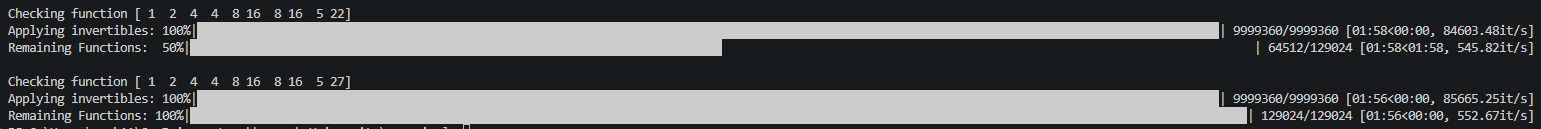
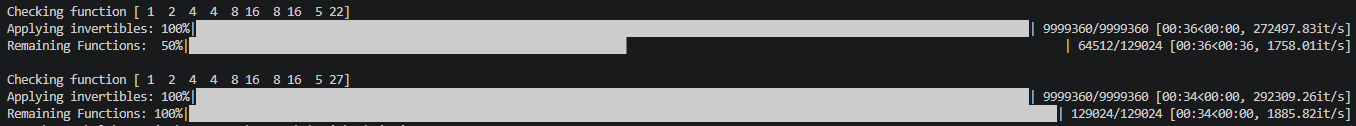
Updated program speed

diff --git a/classify.py b/classify.py
@@ -1,4 +1,4 @@
-from functions import *
+from functions import get_rank, get_canonical_form, get_cubic_indices
 import numpy as np
 from numba import njit
 from configparser import ConfigParser # to read config file
@@ -164,4 +164,4 @@ if __name__ == "__main__":
         n = int(n) # ensures that n is an integer
         main(n)
     except Exception as e:
-            print(f'Error - n must be an integer: {e}')
+        print(f'Error - n must be an integer: {e}')
